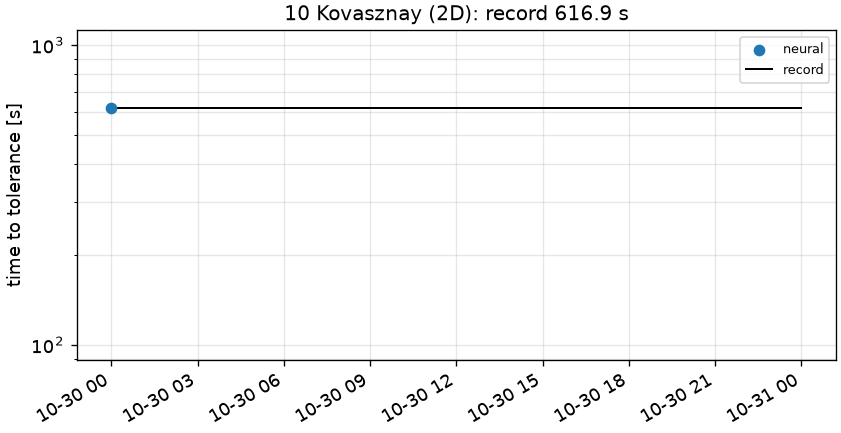
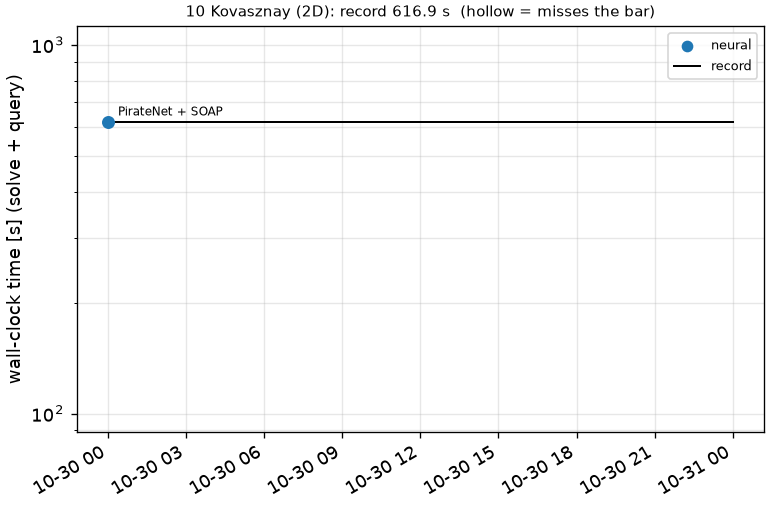
Merge master: figure blocks and activity plots for every track

Changed region(s): [[0.0312, 0.0, 0.9987, 0.9908], [0.0, 0.1501, 0.0312, 0.7506]]

diff --git a/README.md b/README.md
@@ -190,6 +190,7 @@ IIA, rtol 1e-12.
 <img src="tracks/track01_0DT_VanDerPol/figures/reference.png" width="100%" alt="01 reference">
 
 <!-- figures:01:begin -->
+<img src="tracks/track01_0DT_VanDerPol/figures/accuracy_vs_time.png" width="49%" alt="01 accuracy_vs_time"> <img src="tracks/track01_0DT_VanDerPol/figures/activity.png" width="49%" alt="01 activity">
 <!-- figures:01:end -->
 
 ### 02 DampedWave (1D + Time)
@@ -202,6 +203,7 @@ off the walls. Output: 801 t × 1001 x. Reference: exact sine series (closed-for
 <img src="tracks/track02_1DT_DampedWave/figures/reference.gif" width="100%" alt="02 reference">
 
 <!-- figures:02:begin -->
+<img src="tracks/track02_1DT_DampedWave/figures/accuracy_vs_time.png" width="49%" alt="02 accuracy_vs_time"> <img src="tracks/track02_1DT_DampedWave/figures/activity.png" width="49%" alt="02 activity">
 <!-- figures:02:end -->
 
 ### 03 Burgers (1D + Time)
@@ -213,6 +215,7 @@ t ≈ 0.53. Output: 500 t × 1024 x. Reference: Fourier + ETDRK4, N = 8192.
 <img src="tracks/track03_1DT_Burgers/figures/reference.gif" width="100%" alt="03 reference">
 
 <!-- figures:03:begin -->
+<img src="tracks/track03_1DT_Burgers/figures/accuracy_vs_time.png" width="49%" alt="03 accuracy_vs_time"> <img src="tracks/track03_1DT_Burgers/figures/activity.png" width="49%" alt="03 activity">
 <!-- figures:03:end -->
 
 ### 04 KuramotoSivashinsky (1D + Time)
@@ -224,6 +227,7 @@ the initial state is given as samples. Output: 250 t × 512 x. Reference: publis
 <img src="tracks/track04_1DT_KuramotoSivashinsky/figures/reference.gif" width="100%" alt="04 reference">
 
 <!-- figures:04:begin -->
+<img src="tracks/track04_1DT_KuramotoSivashinsky/figures/accuracy_vs_time.png" width="49%" alt="04 accuracy_vs_time"> <img src="tracks/track04_1DT_KuramotoSivashinsky/figures/activity.png" width="49%" alt="04 activity">
 <!-- figures:04:end -->
 
 ### 05 AllenCahn (1D + Time)
@@ -235,6 +239,7 @@ Reference: published data.
 <img src="tracks/track05_1DT_AllenCahn/figures/reference.gif" width="100%" alt="05 reference">
 
 <!-- figures:05:begin -->
+<img src="tracks/track05_1DT_AllenCahn/figures/accuracy_vs_time.png" width="49%" alt="05 accuracy_vs_time"> <img src="tracks/track05_1DT_AllenCahn/figures/activity.png" width="49%" alt="05 activity">
 <!-- figures:05:end -->
 
 ### 06 KdV (1D + Time)
@@ -246,6 +251,7 @@ solitons. Output: 200 t × 512 x. Reference: published data.
 <img src="tracks/track06_1DT_KdV/figures/reference.gif" width="100%" alt="06 reference">
 
 <!-- figures:06:begin -->
+<img src="tracks/track06_1DT_KdV/figures/accuracy_vs_time.png" width="49%" alt="06 accuracy_vs_time"> <img src="tracks/track06_1DT_KdV/figures/activity.png" width="49%" alt="06 activity">
 <!-- figures:06:end -->
 
 ### 07 HighContrastDiffusion (2D)
@@ -256,6 +262,7 @@ and 5376², Richardson-extrapolated at the measured order 1.34.
 <img src="tracks/track07_2D_HighContrastDiffusion/figures/reference.png" width="100%" alt="07 reference">
 
 <!-- figures:07:begin -->
+<img src="tracks/track07_2D_HighContrastDiffusion/figures/accuracy_vs_time.png" width="49%" alt="07 accuracy_vs_time"> <img src="tracks/track07_2D_HighContrastDiffusion/figures/activity.png" width="49%" alt="07 activity">
 <!-- figures:07:end -->
 
 ### 08 Helmholtz (2D): on hold
@@ -272,6 +279,7 @@ and y = 1. Output: 257² Chebyshev–Lobatto grid. Reference: closed form (f was
 <img src="tracks/track09_2D_AdvectionDiffusion/figures/reference.png" width="100%" alt="09 reference">
 
 <!-- figures:09:begin -->
+<img src="tracks/track09_2D_AdvectionDiffusion/figures/accuracy_vs_time.png" width="49%" alt="09 accuracy_vs_time"> <img src="tracks/track09_2D_AdvectionDiffusion/figures/activity.png" width="49%" alt="09 activity">
 <!-- figures:09:end -->
 
 ### 10 Kovasznay (2D)
@@ -281,6 +289,7 @@ whole boundary. Output: (u, v) on 251 × 201. Reference: closed form.
 <img src="tracks/track10_2D_Kovasznay/figures/reference.png" width="100%" alt="10 reference">
 
 <!-- figures:10:begin -->
+<img src="tracks/track10_2D_Kovasznay/figures/accuracy_vs_time.png" width="49%" alt="10 accuracy_vs_time"> <img src="tracks/track10_2D_Kovasznay/figures/activity.png" width="49%" alt="10 activity">
 <!-- figures:10:end -->
 
 ### 11 LidDrivenCavity (2D)
@@ -290,6 +299,7 @@ on 256². RelL∞ is scored at points ≥ 0.05 from the walls. Reference: publis
 <img src="tracks/track11_2D_LidDrivenCavity/figures/reference.png" width="100%" alt="11 reference">
 
 <!-- figures:11:begin -->
+<img src="tracks/track11_2D_LidDrivenCavity/figures/accuracy_vs_time.png" width="49%" alt="11 accuracy_vs_time"> <img src="tracks/track11_2D_LidDrivenCavity/figures/activity.png" width="49%" alt="11 activity">
 <!-- figures:11:end -->
 
 ### 12 Burgers (2D + Time)
@@ -301,6 +311,7 @@ on 256². RelL∞ is scored at points ≥ 0.05 from the walls. Reference: publis
 <img src="tracks/track12_2DT_Burgers/figures/reference.gif" width="100%" alt="12 reference">
 
 <!-- figures:12:begin -->
+<img src="tracks/track12_2DT_Burgers/figures/accuracy_vs_time.png" width="49%" alt="12 accuracy_vs_time"> <img src="tracks/track12_2DT_Burgers/figures/activity.png" width="49%" alt="12 activity">
 <!-- figures:12:end -->
 
 ### 13 DecayingEddies (2D + Time)
@@ -312,6 +323,7 @@ Unsteady NS, ν = 0.05, periodic [0, 2π)², t ∈ [0, 5], from `u = sin 5y + co
 <img src="tracks/track13_2DT_DecayingEddies/figures/reference.gif" width="100%" alt="13 reference">
 
 <!-- figures:13:begin -->
+<img src="tracks/track13_2DT_DecayingEddies/figures/accuracy_vs_time.png" width="49%" alt="13 accuracy_vs_time"> <img src="tracks/track13_2DT_DecayingEddies/figures/activity.png" width="49%" alt="13 activity">
 <!-- figures:13:end -->
 
 ### 14 CylinderFlow (2D + Time): TODO
@@ -329,6 +341,7 @@ state given as samples. Output: (u, v) at 100 t × 200². Reference: published d
 <img src="tracks/track15_2DT_GreyScott/figures/reference.gif" width="100%" alt="15 reference">
 
 <!-- figures:15:begin -->
+<img src="tracks/track15_2DT_GreyScott/figures/accuracy_vs_time.png" width="49%" alt="15 accuracy_vs_time"> <img src="tracks/track15_2DT_GreyScott/figures/activity.png" width="49%" alt="15 activity">
 <!-- figures:15:end -->
 
 ### 16 GinzburgLandau (2D + Time)
@@ -340,6 +353,7 @@ samples. Output: (u, v) at 100 t × 200². Reference: published data.
 <img src="tracks/track16_2DT_GinzburgLandau/figures/reference.gif" width="100%" alt="16 reference">
 
 <!-- figures:16:begin -->
+<img src="tracks/track16_2DT_GinzburgLandau/figures/accuracy_vs_time.png" width="49%" alt="16 accuracy_vs_time"> <img src="tracks/track16_2DT_GinzburgLandau/figures/activity.png" width="49%" alt="16 activity">
 <!-- figures:16:end -->
 
 ### 17 RayleighTaylor (2D + Time)
@@ -351,6 +365,7 @@ samples. Output: (u, v, T) at 34 t on a 100 × 200 grid. Reference: published da
 <img src="tracks/track17_2DT_RayleighTaylor/figures/reference.gif" width="100%" alt="17 reference">
 
 <!-- figures:17:begin -->
+<img src="tracks/track17_2DT_RayleighTaylor/figures/accuracy_vs_time.png" width="49%" alt="17 accuracy_vs_time"> <img src="tracks/track17_2DT_RayleighTaylor/figures/activity.png" width="49%" alt="17 activity">
 <!-- figures:17:end -->
 
 ### 18 KolmogorovFlow (2D + Time)
@@ -362,6 +377,7 @@ samples; turbulent. Output: (u, v) at 49 t × 256². Reference: published data.
 <img src="tracks/track18_2DT_KolmogorovFlow/figures/reference.gif" width="100%" alt="18 reference">
 
 <!-- figures:18:begin -->
+<img src="tracks/track18_2DT_KolmogorovFlow/figures/accuracy_vs_time.png" width="49%" alt="18 accuracy_vs_time"> <img src="tracks/track18_2DT_KolmogorovFlow/figures/activity.png" width="49%" alt="18 activity">
 <!-- figures:18:end -->
 
 ### 19 BeltramiFlow (3D + Time)
@@ -372,6 +388,7 @@ Reference: closed form.
 <img src="tracks/track19_3DT_BeltramiFlow/figures/reference.png" width="100%" alt="19 reference">
 
 <!-- figures:19:begin -->
+<img src="tracks/track19_3DT_BeltramiFlow/figures/accuracy_vs_time.png" width="49%" alt="19 accuracy_vs_time"> <img src="tracks/track19_3DT_BeltramiFlow/figures/activity.png" width="49%" alt="19 activity">
 <!-- figures:19:end -->
 
 ## Layout

diff --git a/tracks/track01_0DT_VanDerPol/README.md b/tracks/track01_0DT_VanDerPol/README.md
@@ -32,3 +32,5 @@ Current record: **300.4 s** (PirateNet + SOAP, maintainers, 2026-10-30, NVIDIA H
 | 2026-10-30 | maintainers | PirateNet + SOAP | neural | 300.4 | 1.14e+00 | 1.75e+00 | no | NVIDIA H100 80GB HBM3 (JAX) |
 
 ![accuracy_vs_time](figures/accuracy_vs_time.png)
+
+![activity](figures/activity.png)

diff --git a/tracks/track09_2D_AdvectionDiffusion/README.md b/tracks/track09_2D_AdvectionDiffusion/README.md
@@ -34,3 +34,5 @@ Current record: **300.7 s** (PirateNet + SOAP, maintainers, 2026-10-30, NVIDIA H
 | 2026-10-30 | maintainers | PirateNet + SOAP | neural | 300.7 | 9.44e-01 | 7.24e-01 | no | NVIDIA H100 80GB HBM3 (JAX) |
 
 ![accuracy_vs_time](figures/accuracy_vs_time.png)
+
+![activity](figures/activity.png)

diff --git a/tracks/track16_2DT_GinzburgLandau/README.md b/tracks/track16_2DT_GinzburgLandau/README.md
@@ -32,3 +32,5 @@ Current record: **301.7 s** (PirateNet + SOAP, maintainers, 2026-10-31, NVIDIA H
 | 2026-10-31 | maintainers | PirateNet + SOAP | neural | 301.7 | 9.99e-01 | 1.02e+00 | no | NVIDIA H100 80GB HBM3 (JAX) |
 
 ![accuracy_vs_time](figures/accuracy_vs_time.png)
+
+![activity](figures/activity.png)

diff --git a/tracks/track17_2DT_RayleighTaylor/README.md b/tracks/track17_2DT_RayleighTaylor/README.md
@@ -36,3 +36,5 @@ Current record: **396.8 s** (PirateNet + SOAP, maintainers, 2026-10-31, NVIDIA H
 | 2026-10-31 | maintainers | PirateNet + SOAP | neural | 396.8 | 8.63e-01 | 9.98e-01 | no | NVIDIA H100 80GB HBM3 (JAX) |
 
 ![accuracy_vs_time](figures/accuracy_vs_time.png)
+
+![activity](figures/activity.png)

diff --git a/tracks/track02_1DT_DampedWave/README.md b/tracks/track02_1DT_DampedWave/README.md
@@ -34,3 +34,5 @@ Current record: **1001 s** (PirateNet + SOAP, maintainers, 2026-10-30, NVIDIA H1
 | 2026-10-30 | maintainers | PirateNet + SOAP | neural | 1001 | 1.43e-02 | 8.14e-03 | no | NVIDIA H100 80GB HBM3 (JAX) |
 
 ![accuracy_vs_time](figures/accuracy_vs_time.png)
+
+![activity](figures/activity.png)

diff --git a/tracks/track04_1DT_KuramotoSivashinsky/README.md b/tracks/track04_1DT_KuramotoSivashinsky/README.md
@@ -30,3 +30,5 @@ Current record: **1000 s** (PirateNet + SOAP, maintainers, 2026-10-30, NVIDIA H1
 | 2026-10-30 | maintainers | PirateNet + SOAP | neural | 1000 | 9.31e-01 | 1.13e+00 | no | NVIDIA H100 80GB HBM3 (JAX) |
 
 ![accuracy_vs_time](figures/accuracy_vs_time.png)
+
+![activity](figures/activity.png)

diff --git a/tracks/track07_2D_HighContrastDiffusion/README.md b/tracks/track07_2D_HighContrastDiffusion/README.md
@@ -37,3 +37,5 @@ Current record: **1001 s** (PirateNet + SOAP, maintainers, 2026-10-30, NVIDIA H1
 | 2026-10-30 | maintainers | PirateNet + SOAP | neural | 1001 | 1.36e-01 | 2.03e-01 | no | NVIDIA H100 80GB HBM3 (JAX) |
 
 ![accuracy_vs_time](figures/accuracy_vs_time.png)
+
+![activity](figures/activity.png)

diff --git a/tracks/track11_2D_LidDrivenCavity/README.md b/tracks/track11_2D_LidDrivenCavity/README.md
@@ -31,3 +31,5 @@ Current record: **1001 s** (PirateNet + SOAP, maintainers, 2026-10-31, NVIDIA H1
 | 2026-10-31 | maintainers | PirateNet + SOAP | neural | 1001 | 1.00e+00 | 1.00e+00 | no | NVIDIA H100 80GB HBM3 (JAX) |
 
 ![accuracy_vs_time](figures/accuracy_vs_time.png)
+
+![activity](figures/activity.png)

diff --git a/tracks/track15_2DT_GreyScott/README.md b/tracks/track15_2DT_GreyScott/README.md
@@ -32,3 +32,5 @@ Current record: **1002 s** (PirateNet + SOAP, maintainers, 2026-10-31, NVIDIA H1
 | 2026-10-31 | maintainers | PirateNet + SOAP | neural | 1002 | 6.04e-01 | 7.35e-01 | no | NVIDIA H100 80GB HBM3 (JAX) |
 
 ![accuracy_vs_time](figures/accuracy_vs_time.png)
+
+![activity](figures/activity.png)

diff --git a/tracks/track18_2DT_KolmogorovFlow/README.md b/tracks/track18_2DT_KolmogorovFlow/README.md
@@ -32,3 +32,5 @@ Current record: **1001 s** (PirateNet + SOAP, maintainers, 2026-10-31, NVIDIA H1
 | 2026-10-31 | maintainers | PirateNet + SOAP | neural | 1001 | 1.21e+00 | 1.41e+00 | no | NVIDIA H100 80GB HBM3 (JAX) |
 
 ![accuracy_vs_time](figures/accuracy_vs_time.png)
+
+![activity](figures/activity.png)

diff --git a/tracks/track05_1DT_AllenCahn/README.md b/tracks/track05_1DT_AllenCahn/README.md
@@ -31,3 +31,5 @@ Current record: **383 s** (PirateNet + SOAP, maintainers, 2026-10-30, NVIDIA H10
 | 2026-10-30 | maintainers | PirateNet + SOAP | neural | 383 | 1.95e-03 | 2.98e-02 | no | NVIDIA H100 80GB HBM3 (JAX) |
 
 ![accuracy_vs_time](figures/accuracy_vs_time.png)
+
+![activity](figures/activity.png)
